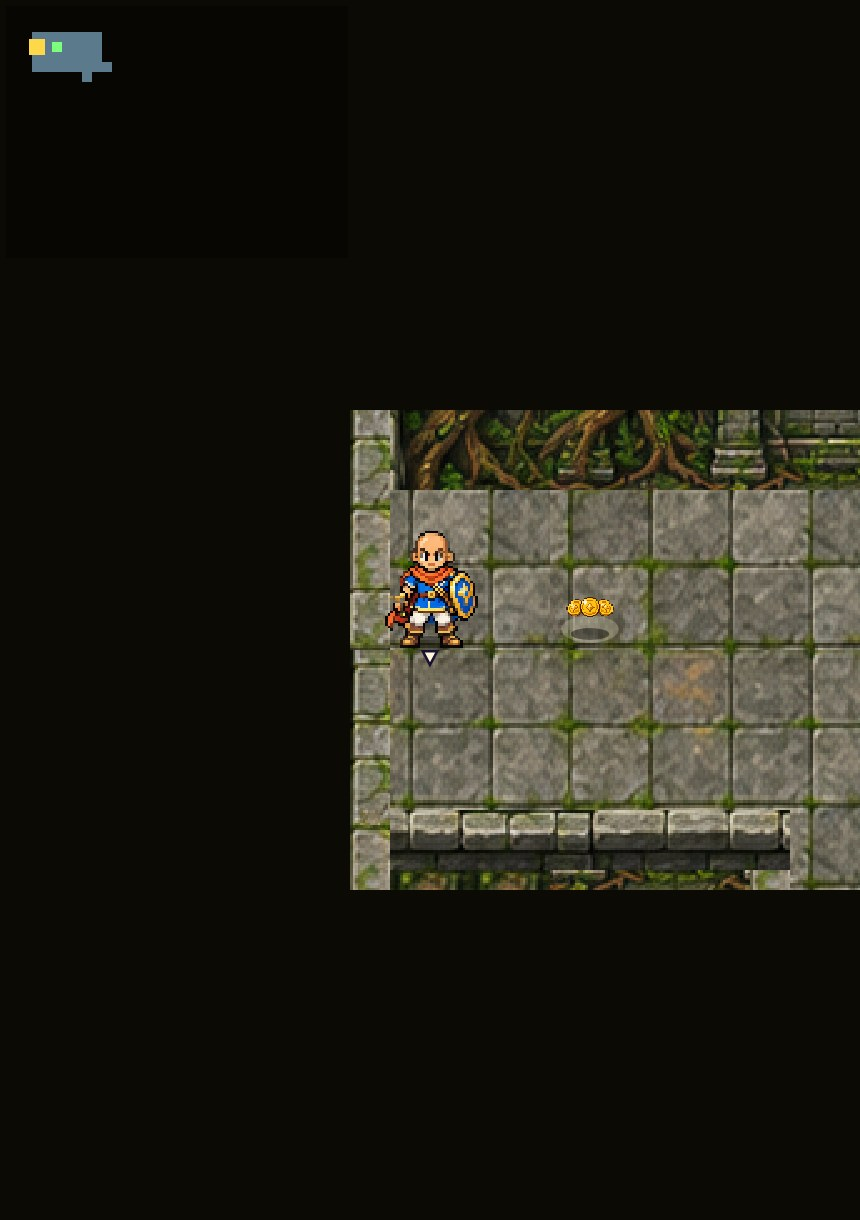
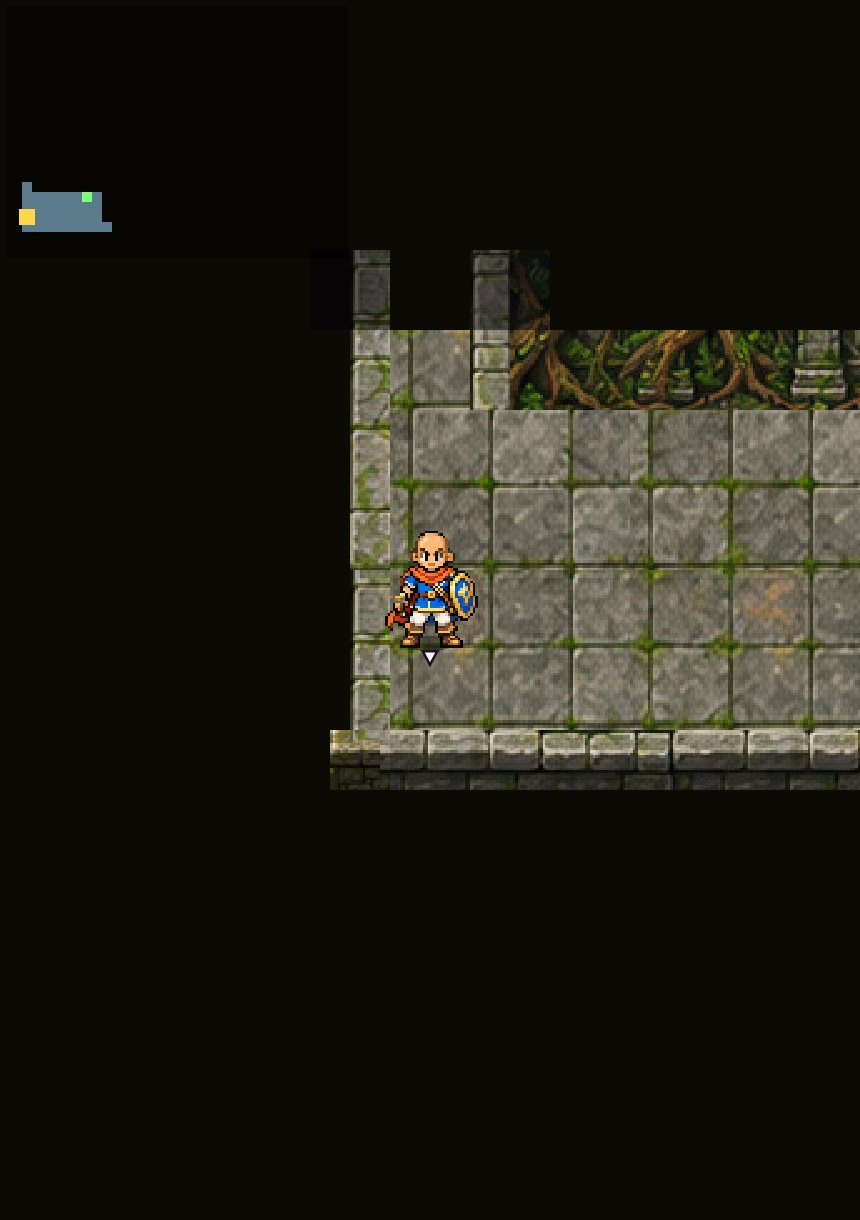
プランB（薄い壁を作らない地図）を全地域で採用
新しく作る階から。部屋の数・大きさは同じ。乱数の並びが変わって外れることがあった
2回行動と紋章の復活のテストを、当たるまで組をくり返す形にした。

Claude-Session: https://claude.ai/code/session_01HDLigwwegm7F2trSGLBQuS

Changed region(s): [[0.3628, 0.1869, 1.0, 0.7475], [0.0, 0.1557, 0.1209, 0.218], [0.0302, 0.0, 0.1209, 0.0623]]

diff --git a/tests/logic.test.js b/tests/logic.test.js
@@ -3191,9 +3191,10 @@ test('2回行動の行動順（記録）：セットができる・外れる（1
   eq(run.turn - t0, 5); eq(moves, 5);
   // 紋章で復活：倒されるのは敵の手番の中（2回目の行動のあと）。その手番は消えず、次からはセットなしで1行動＝1ターン
   run.enemies = []; const k = addEnemy(S, 'frog', p.x + 1, p.y); k.atk = 99999; k.awake = true; p.hp = 1;
-  log.length = 0; e = k;
-  step('1回目', { type: 'wait' });
-  const r = step('2回目（敵の攻撃で倒れて復活）', { type: 'wait' });
+  e = k;
+  // 敵の攻撃は外れることがある（乱数）。当たって復活するまで、1回目・2回目の組をくり返す（組の途中の扱いは毎回同じ）
+  let r;
+  for (let i = 0; i < 12; i++) { log.length = 0; p.hp = 1; step('1回目', { type: 'wait' }); r = step('2回目（敵の攻撃で倒れて復活）', { type: 'wait' }); if (r.events.some((x) => x.t === 'revive')) break; }
   assert(r.events.some((x) => x.t === 'revive') && !run.bag.includes(crest) && !G.sets(run).all3, 'crest consumed');
   eq(p.hp, p.maxhp, '3点セットだったので全回復');
   k.atk = 0;

diff --git a/js/data.js b/js/data.js
@@ -33,7 +33,7 @@
 
   // マップ（3x3 の区画にランダムな部屋を置く）
   D.MAP = { cols: 3, rows: 3, cellW: 11, cellH: 8 };
-  D.MAP_THICK_WALLS = false;   // 試験中（プランB）：薄い壁を作らない地図（js/dungeon.js の thickOk）。本番は false
+  D.MAP_THICK_WALLS = true;   // プランB（2026年10月27日に採用）：薄い壁を作らない地図（js/dungeon.js の thickOk）。新しく作る階から。全地域
   D.MAP.w = D.MAP.cols * D.MAP.cellW;
   D.MAP.h = D.MAP.rows * D.MAP.cellH;
 

diff --git a/js/dungeon.js b/js/dungeon.js
@@ -121,7 +121,7 @@
     }
     return true;
   }
-  /* 厚い壁の検査（試験中のプランB。D.MAP_THICK_WALLS のときだけ。本番は使っていない）：
+  /* 厚い壁の検査（プランB。D.MAP_THICK_WALLS のとき。2026年10月27日に採用）：
    *  壁の正面（下が床の壁）の上に、壁が2マス以上続く（3マスの高さの壁の絵が切れない）
    *  左右とも床の1マス幅の壁が無い */
   function thickOk(map) {

diff --git a/docs/REGION_V2_SPEC.md b/docs/REGION_V2_SPEC.md
@@ -50,3 +50,4 @@
   - 上下とも床の壁は low_wall（h=x%4、となりが床なら閉じた端）、左右とも床の壁は pillar_v（v=y%4）。そのマスには帯・角・壁の切れ端を描かない。となりの部屋の下の角も描かない。
   - 幅1・2マスだけの正面の壁で、どの列も上に3マスの高さがあれば short_wall_1・2。
   - 比較 `docs/sunken-v2/thin_3spots_before_after.png`（指摘の3か所、左が前・右が後）。
+- 2026年10月27日：プランB を採用（`D.MAP_THICK_WALLS = true`、`js/dungeon.js` の thickOk）。新しく作る階から、全地域で薄い壁（壁の正面の上に壁が2マス未満・左右とも床の1マス幅の壁）を作らない。部屋の数・大きさ・敵・道具・戦闘は同じ。すでに作られた階はそのまま。比較 `docs/plan-b/`。
